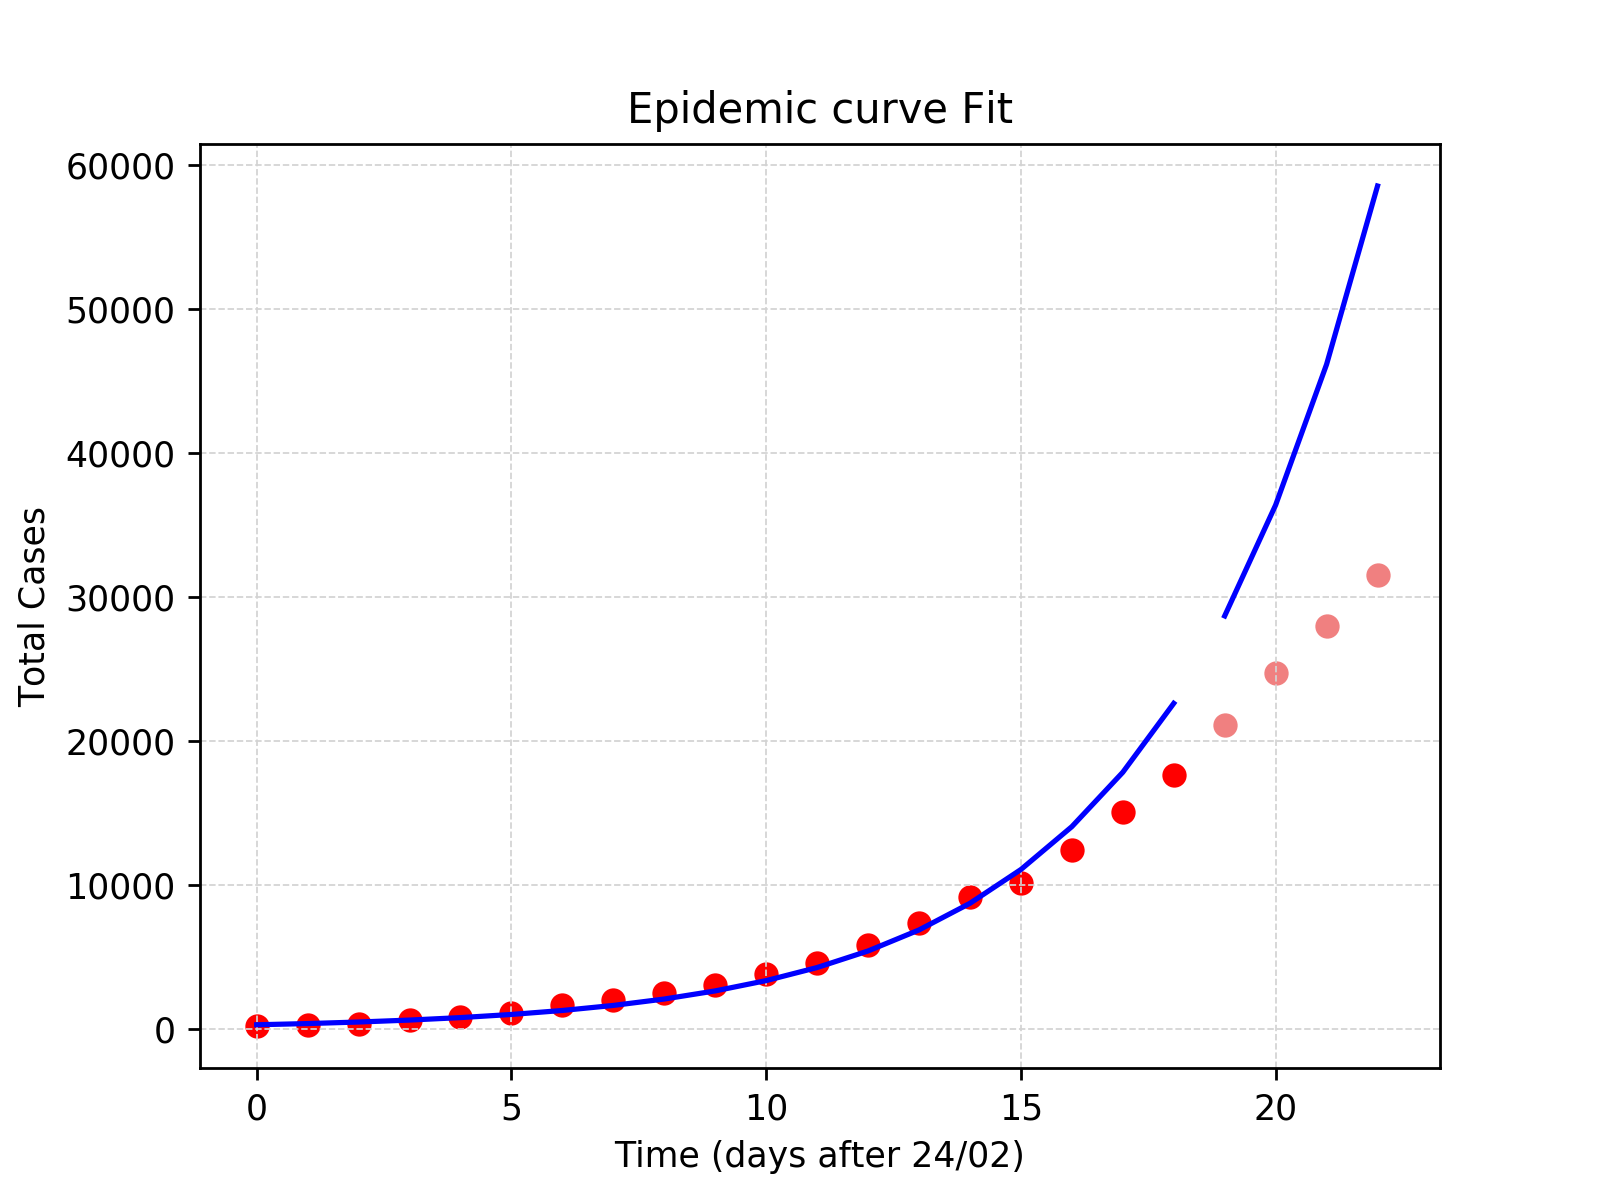
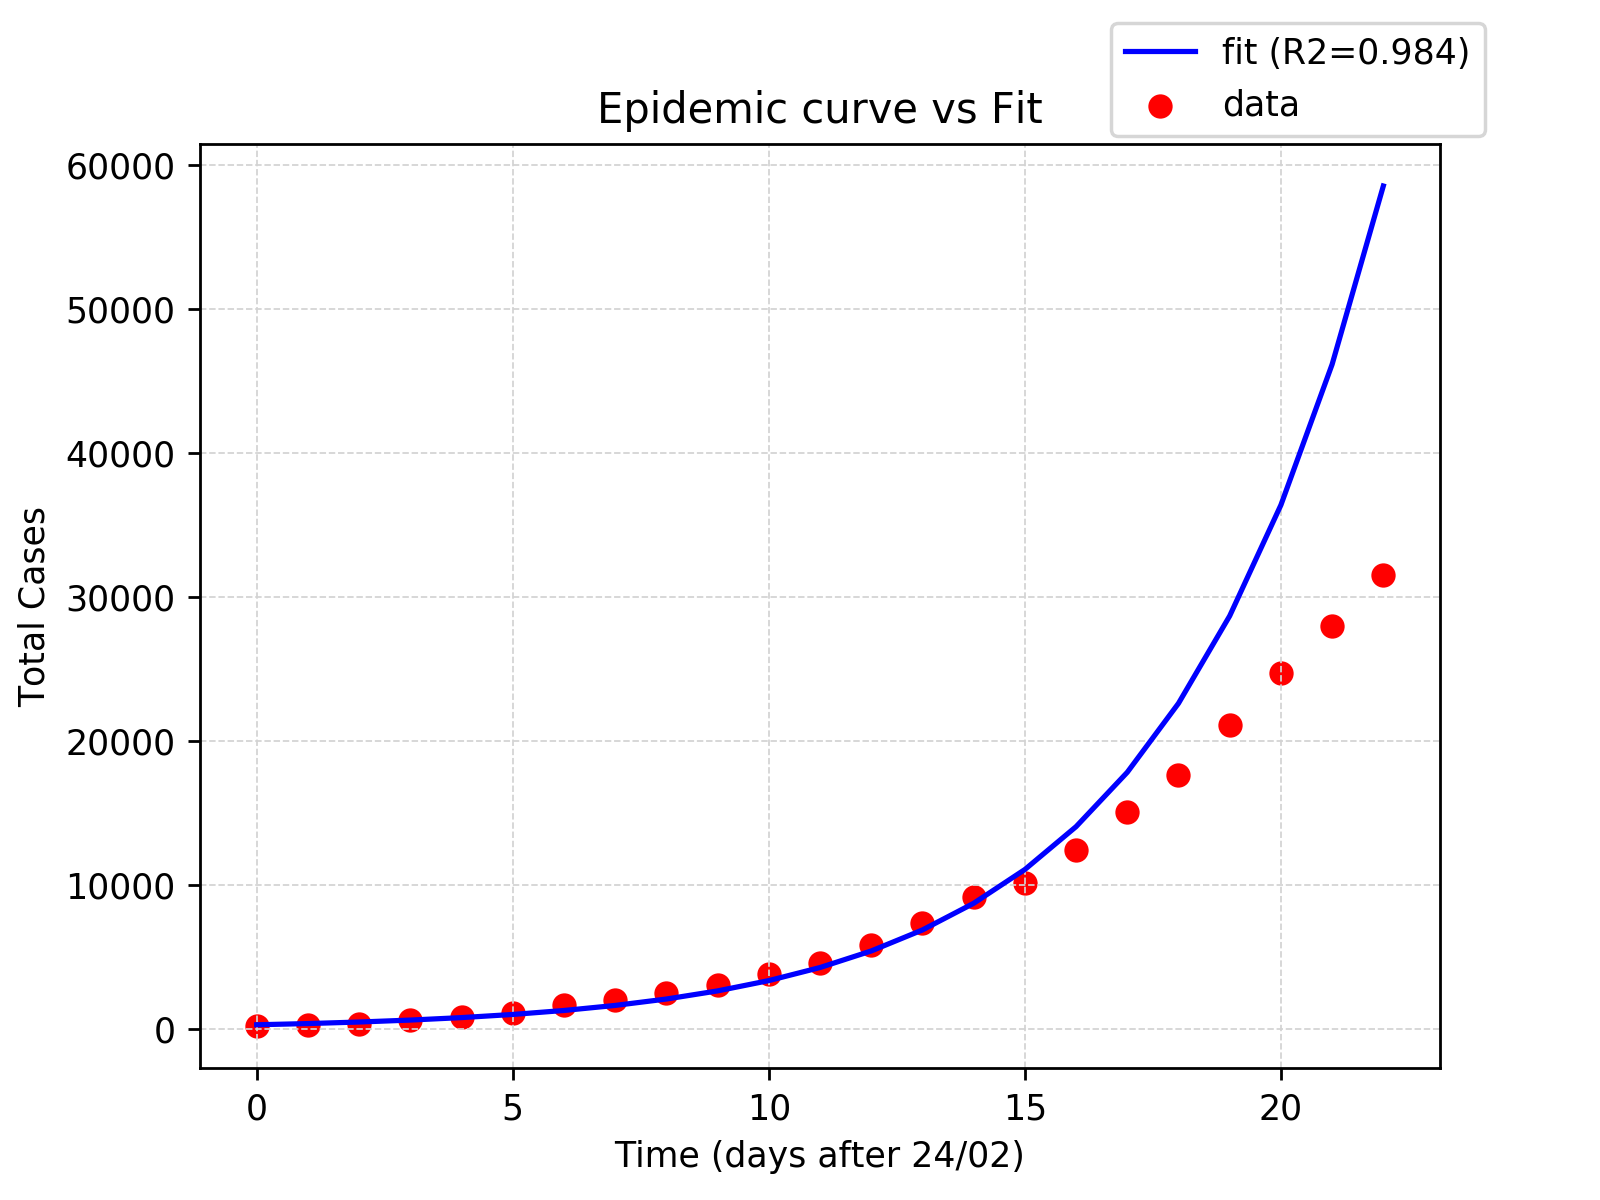
concatenate

diff --git a/plotscatter.py b/plotscatter.py
@@ -90,27 +90,27 @@ print('\nSCORE:\n', score)
 print('COEFFICIENT:\n', growth)
 print('INTERCEPT:\n', n0)
 
+join_x = np.concatenate((x_train, x_test), axis=None)
+join_y = np.concatenate((y_train, y_test), axis=None)
+join_pred = np.concatenate((Y_pred_train, Y_pred_test), axis=None)
+
 #plot of fit vs data
-plt.scatter(x_train,y_train,color = 'red')
-plt.scatter(x_test,y_test,color = 'lightcoral')
-plt.plot(x_train,Y_pred_train,color = 'blue')
-plt.plot(x_test,Y_pred_test,color = 'blue')
-plt.title('Epidemic curve Fit')
+plt.scatter(join_x,join_y,color = 'red')
+plt.plot(join_x,join_pred,color = 'blue')
+plt.title('Epidemic curve vs Fit')
 plt.xlabel('Time (days after 24/02)')
 plt.ylabel('Log of Total Cases')
-#plt.legend(('fit (R2={:.3f})'.format(score), 'data'),loc='upper right', bbox_to_anchor=(1.05, 1.15))
+plt.legend(('fit (R2={:.3f})'.format(score), 'log data'),loc='upper right', bbox_to_anchor=(1.05, 1.15))
 plt.grid(color='lightgray', linestyle='--', linewidth=0.5)
 plt.savefig('./curves/epidemic-curve-fit-TRAIN.png', dpi=250)
 plt.clf()
 
-plt.scatter(x_train,np.exp(y_train),color = 'red')
-plt.scatter(x_test,np.exp(y_test),color = 'lightcoral')
-plt.plot(x_train,np.exp(Y_pred_train),color = 'blue')
-plt.plot(x_test,np.exp(Y_pred_test),color = 'blue')
-plt.title('Epidemic curve Fit')
+plt.scatter(join_x,np.exp(join_y),color = 'red')
+plt.plot(join_x,np.exp(join_pred),color = 'blue')
+plt.title('Epidemic curve vs Fit')
 plt.xlabel('Time (days after 24/02)')
 plt.ylabel('Total Cases')
-#plt.legend(('fit (R2={:.3f})'.format(score), 'data'),loc='upper right', bbox_to_anchor=(1.05, 1.15))
+plt.legend(('fit (R2={:.3f})'.format(score), 'data'),loc='upper right', bbox_to_anchor=(1.05, 1.15))
 plt.grid(color='lightgray', linestyle='--', linewidth=0.5)
 plt.savefig('./curves/epidemic-curve-fit-TRAIN-2.png', dpi=250)
 plt.clf()
